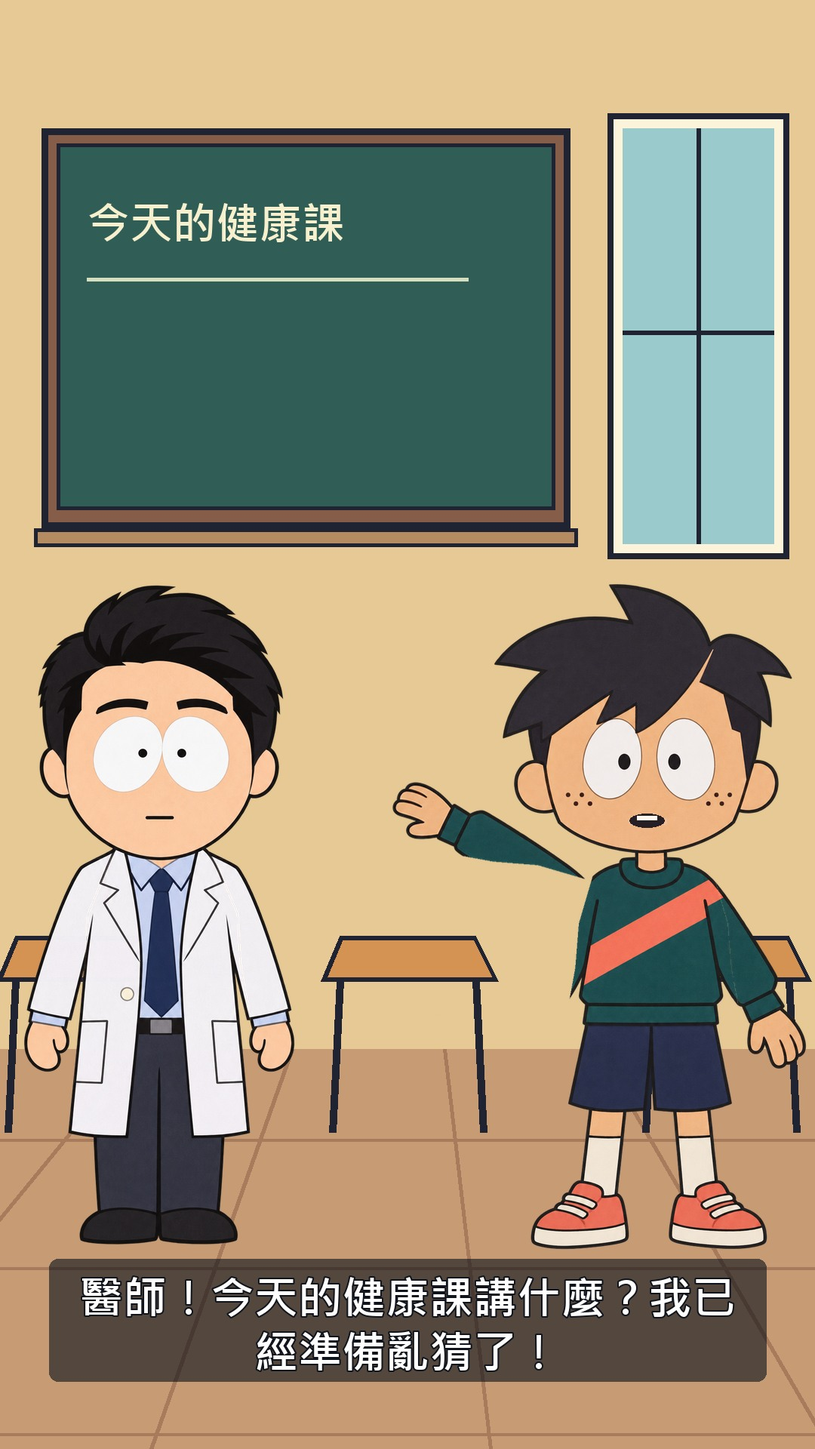
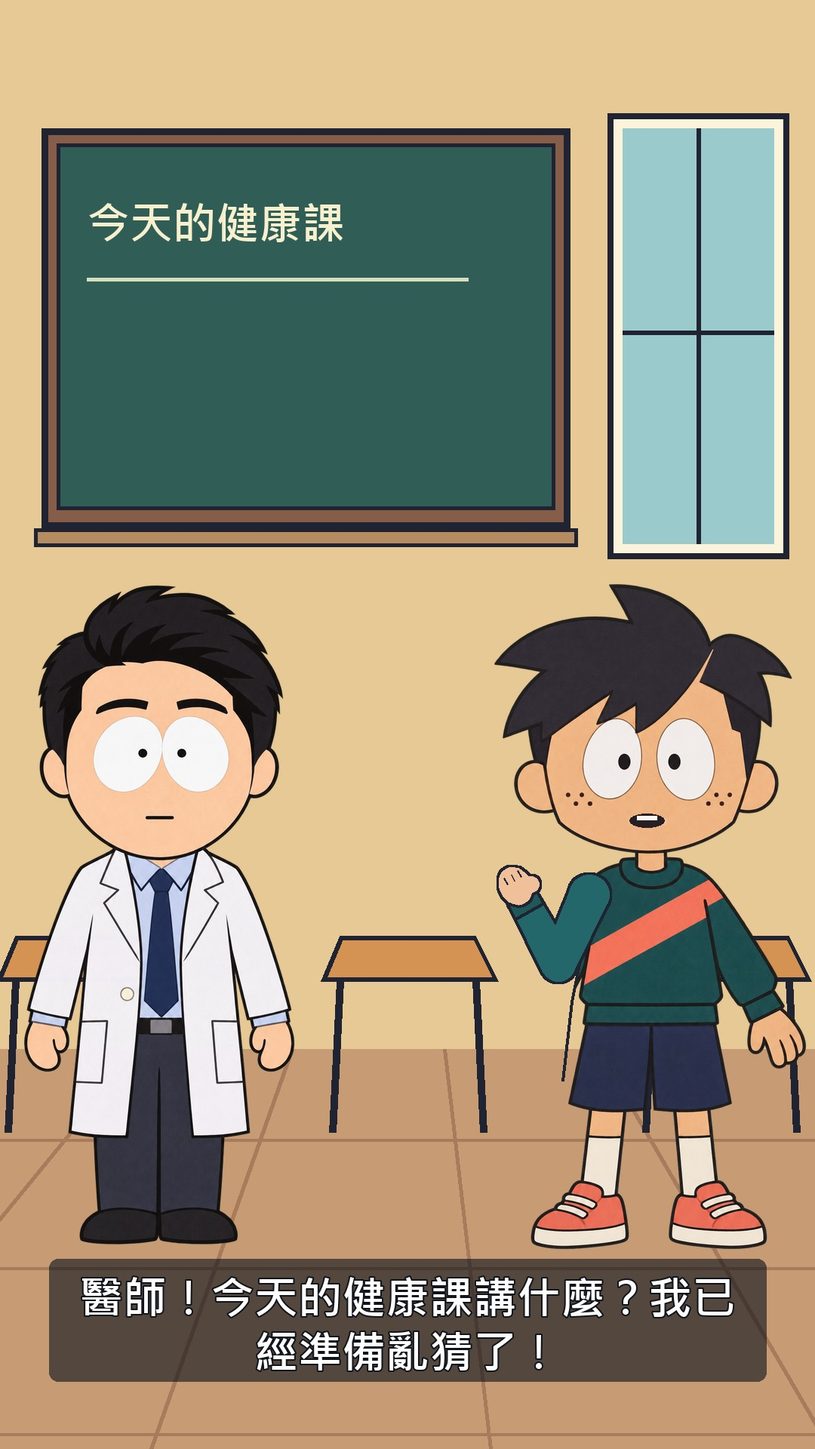
Fix detached arm poses with connected shoulder-elbow-wrist rigs

Changed region(s): [[0.4889, 0.5312, 0.7639, 0.75]]

diff --git a/examples/draft/storyboard.html b/examples/draft/storyboard.html
@@ -1,1 +1,1 @@
-<!doctype html><html lang="zh-Hant"><meta charset="utf-8"><meta name="viewport" content="width=device-width,initial-scale=1"><title>醫師剪紙劇場・通用讀劇範本・分鏡審稿</title><style>body{background:#fff9ed;color:#202332;font:17px system-ui;max-width:1100px;margin:40px auto;padding:0 20px}article{display:grid;grid-template-columns:230px 1fr;gap:28px;border-top:3px solid #202332;padding:25px 0}img{width:100%;aspect-ratio:9/16;object-fit:contain}h1{font-size:30px}small{color:#666}p{line-height:1.7}.status{padding:18px;background:#f8c854}a{color:#315d57}@media(max-width:600px){article{grid-template-columns:1fr}img{max-width:270px}}</style><h1>醫師剪紙劇場・通用讀劇範本</h1><p class="status">待審稿 · 手機滿版場景 9:16 · 版本 7fb4c6f94cf9d104 · 約 49.0 秒（估）<br>尚未生成配音、配樂或影片。請先修改或確認腳本與分鏡。</p><p><a href="script.md">完整腳本</a> · <a href="storyboard.jpg">分鏡總覽</a> · <a href="episode.json">劇本資料</a></p><article><img src="frames/01.jpg" alt="分鏡 1"><div><small>01 · 教室 · 角色對話 · 5.7s（估）</small><h2>先猜，再找答案？</h2><p><b>阿洛：</b>醫師！今天的健康課講什麼？我已經準備亂猜了！</p><p>動作：教室黑板前，阿洛點頭搶話，醫師在旁聽。</p><p>反應：醫師維持冷面，等阿洛說完。</p><p>鏡頭：固定尺度・阿洛發言 · 來源：無臨床說法</p></div></article><article><img src="frames/02.jpg" alt="分鏡 2"><div><small>02 · 教室 · 黑板講解 · 6.4s（估）</small><h2>黑板把關係講清楚</h2><p><b>醫師：</b>先有主題，再查資料。你看黑板，我把關係整理給你看。</p><p>動作：師生同尺度分站黑板兩側，醫師用指示棒介紹條列與箭頭。</p><p>反應：阿洛看完黑板再接話，不讓教具成為純背景。</p><p>鏡頭：固定尺度・醫師發言 · 來源：無臨床說法</p></div></article><article><img src="frames/03.jpg" alt="分鏡 3"><div><small>03 · 小學校園 · 角色對話 · 5.9s（估）</small><h2>也可以用模型上課</h2><p><b>美芳：</b>也能放個骨頭模型嗎？讓學生看著教具，再問問題。</p><p>動作：校園中美芳提出教具建議，醫師聽完帶回教室示範。</p><p>反應：不把每一集固定成有人說錯、醫師糾正。</p><p>鏡頭：固定尺度・美芳發言 · 來源：無臨床說法</p></div></article><article><img src="frames/04.jpg" alt="分鏡 4"><div><small>04 · 教室 · 骨頭模型示範 · 5.9s（估）</small><h2>骨頭模型上桌</h2><p><b>醫師：</b>可以。模型放桌上，學生看得到，問題就能接著來。</p><p>動作：醫師與阿洛同尺度站在模型兩側；桌面有骨頭教具與支架。</p><p>反應：阿洛觀察模型；本幕只展示教具演法，不提供疾病或精確解剖說法。</p><p>鏡頭：固定尺度・醫師發言 · 來源：無臨床說法</p></div></article><article><img src="frames/05.jpg" alt="分鏡 5"><div><small>05 · 街道 · 角色對話 · 5.8s（估）</small><h2>連教室都要搬出來？</h2><p><b>阿洛：</b>所以每次上課，都得把整個教室一起搬到街上嗎？</p><p>動作：街道中阿洛追問，醫師保持同尺度冷面聽完。</p><p>反應：從教具示範轉成生活情境，用接話推進笑點。</p><p>鏡頭：固定尺度・阿洛發言 · 來源：無臨床說法</p></div></article><article><img src="frames/06.jpg" alt="分鏡 6"><div><small>06 · 街道 · 並列比較 · 5.9s（估）</small><h2>演法依主題來選</h2><p><b>美芳：</b>不用搬教室。看主題，選適合的場景、黑板或模型。</p><p>動作：街道上用並列教學卡比較兩種敘事用途，兩位角色保持同尺度。</p><p>反應：美芳代觀眾回應，不把所有內容塞成醫師獨白。</p><p>鏡頭：固定尺度・美芳發言 · 來源：無臨床說法</p></div></article><article><img src="frames/07.jpg" alt="分鏡 7"><div><small>07 · 教室 · 學生猜題 · 6.8s（估）</small><h2>先讓你看分鏡</h2><p><b>醫師：</b>來，猜一下：先看分鏡，還是直接開拍？你確認了才開拍。</p><p>動作：師生站在黑板兩側，列出兩個選項，先交給使用者審閱。</p><p>反應：阿洛準備接話；修改確認之前不生成聲音或影片。</p><p>鏡頭：固定尺度・全員同框 · 來源：無臨床說法</p></div></article><article><img src="frames/08.jpg" alt="分鏡 8"><div><small>08 · 教室 · 角色對話 · 6.5s（估）</small><h2>先審稿，才不會演錯棚</h2><p><b>阿洛：</b>好！先讓你看分鏡，我才不會抱著骨頭模型演錯棚！</p><p>動作：滿版教室雙人同框；阿洛說話時揮手，結束後收手留白。</p><p>反應：醫師在旁聽，停在分鏡審稿階段，等待使用者修改。</p><p>鏡頭：固定尺度・笑點留白 · 來源：無臨床說法</p></div></article></html>
+<!doctype html><html lang="zh-Hant"><meta charset="utf-8"><meta name="viewport" content="width=device-width,initial-scale=1"><title>醫師剪紙劇場・通用讀劇範本・分鏡審稿</title><style>body{background:#fff9ed;color:#202332;font:17px system-ui;max-width:1100px;margin:40px auto;padding:0 20px}article{display:grid;grid-template-columns:230px 1fr;gap:28px;border-top:3px solid #202332;padding:25px 0}img{width:100%;aspect-ratio:9/16;object-fit:contain}h1{font-size:30px}small{color:#666}p{line-height:1.7}.status{padding:18px;background:#f8c854}a{color:#315d57}@media(max-width:600px){article{grid-template-columns:1fr}img{max-width:270px}}</style><h1>醫師剪紙劇場・通用讀劇範本</h1><p class="status">待審稿 · 手機滿版場景 9:16 · 版本 ea56bb37448d4e18 · 約 49.0 秒（估）<br>尚未生成配音、配樂或影片。請先修改或確認腳本與分鏡。</p><p><a href="script.md">完整腳本</a> · <a href="storyboard.jpg">分鏡總覽</a> · <a href="episode.json">劇本資料</a></p><article><img src="frames/01.jpg" alt="分鏡 1"><div><small>01 · 教室 · 角色對話 · 5.7s（估）</small><h2>先猜，再找答案？</h2><p><b>阿洛：</b>醫師！今天的健康課講什麼？我已經準備亂猜了！</p><p>動作：教室黑板前，阿洛點頭搶話，醫師在旁聽。</p><p>反應：醫師維持冷面，等阿洛說完。</p><p>鏡頭：固定尺度・阿洛發言 · 來源：無臨床說法</p></div></article><article><img src="frames/02.jpg" alt="分鏡 2"><div><small>02 · 教室 · 黑板講解 · 6.4s（估）</small><h2>黑板把關係講清楚</h2><p><b>醫師：</b>先有主題，再查資料。你看黑板，我把關係整理給你看。</p><p>動作：師生同尺度分站黑板兩側，醫師用指示棒介紹條列與箭頭。</p><p>反應：阿洛看完黑板再接話，不讓教具成為純背景。</p><p>鏡頭：固定尺度・醫師發言 · 來源：無臨床說法</p></div></article><article><img src="frames/03.jpg" alt="分鏡 3"><div><small>03 · 小學校園 · 角色對話 · 5.9s（估）</small><h2>也可以用模型上課</h2><p><b>美芳：</b>也能放個骨頭模型嗎？讓學生看著教具，再問問題。</p><p>動作：校園中美芳提出教具建議，醫師聽完帶回教室示範。</p><p>反應：不把每一集固定成有人說錯、醫師糾正。</p><p>鏡頭：固定尺度・美芳發言 · 來源：無臨床說法</p></div></article><article><img src="frames/04.jpg" alt="分鏡 4"><div><small>04 · 教室 · 骨頭模型示範 · 5.9s（估）</small><h2>骨頭模型上桌</h2><p><b>醫師：</b>可以。模型放桌上，學生看得到，問題就能接著來。</p><p>動作：醫師與阿洛同尺度站在模型兩側；桌面有骨頭教具與支架。</p><p>反應：阿洛觀察模型；本幕只展示教具演法，不提供疾病或精確解剖說法。</p><p>鏡頭：固定尺度・醫師發言 · 來源：無臨床說法</p></div></article><article><img src="frames/05.jpg" alt="分鏡 5"><div><small>05 · 街道 · 角色對話 · 5.8s（估）</small><h2>連教室都要搬出來？</h2><p><b>阿洛：</b>所以每次上課，都得把整個教室一起搬到街上嗎？</p><p>動作：街道中阿洛追問，醫師保持同尺度冷面聽完。</p><p>反應：從教具示範轉成生活情境，用接話推進笑點。</p><p>鏡頭：固定尺度・阿洛發言 · 來源：無臨床說法</p></div></article><article><img src="frames/06.jpg" alt="分鏡 6"><div><small>06 · 街道 · 並列比較 · 5.9s（估）</small><h2>演法依主題來選</h2><p><b>美芳：</b>不用搬教室。看主題，選適合的場景、黑板或模型。</p><p>動作：街道上用並列教學卡比較兩種敘事用途，兩位角色保持同尺度。</p><p>反應：美芳代觀眾回應，不把所有內容塞成醫師獨白。</p><p>鏡頭：固定尺度・美芳發言 · 來源：無臨床說法</p></div></article><article><img src="frames/07.jpg" alt="分鏡 7"><div><small>07 · 教室 · 學生猜題 · 6.8s（估）</small><h2>先讓你看分鏡</h2><p><b>醫師：</b>來，猜一下：先看分鏡，還是直接開拍？你確認了才開拍。</p><p>動作：師生站在黑板兩側，列出兩個選項，先交給使用者審閱。</p><p>反應：阿洛準備接話；修改確認之前不生成聲音或影片。</p><p>鏡頭：固定尺度・全員同框 · 來源：無臨床說法</p></div></article><article><img src="frames/08.jpg" alt="分鏡 8"><div><small>08 · 教室 · 角色對話 · 6.5s（估）</small><h2>先審稿，才不會演錯棚</h2><p><b>阿洛：</b>好！先讓你看分鏡，我才不會抱著骨頭模型演錯棚！</p><p>動作：滿版教室雙人同框；阿洛說話時揮手，結束後收手留白。</p><p>反應：醫師在旁聽，停在分鏡審稿階段，等待使用者修改。</p><p>鏡頭：固定尺度・笑點留白 · 來源：無臨床說法</p></div></article></html>

diff --git a/scripts/visuals.py b/scripts/visuals.py
@@ -29,25 +29,6 @@ def resolved_gesture(scene):
     return "question" if scene["speaker"]=="alo" else "talk"
 
 
-def gesture_angles(gesture,phase,direction=1):
-    wave=math.sin(phase*math.tau/6)
-    if gesture=="talk":
-        left,right=0,14+12*wave
-    elif gesture=="point":
-        left,right=0,60+5*wave
-    elif gesture=="present":
-        left,right=0,45+8*wave
-    elif gesture=="question":
-        left,right=0,85+8*wave
-    elif gesture=="wave":
-        left,right=0,100+12*wave
-    else:
-        left,right=0,0
-    if direction<0:
-        left,right=-right,-left
-    return round(left/5)*5,round(right/5)*5
-
-
 def find_font(explicit=None):
     paths = [explicit] if explicit else []
     paths += [os.environ.get("CJK_FONT"), "C:/Windows/Fonts/msjhbd.ttc",
@@ -147,7 +128,7 @@ class Stage:
         return self.backgrounds[key].copy()
 
     def character_parts(self,name,height):
-        """Hinge the existing cut-paper sleeves/hands; retain the original body scale."""
+        """Clean only the active arm; keep the head, torso and idle arm intact."""
         key=(name,height)
         if key in self.arm_layers:
             return self.arm_layers[key]
@@ -155,52 +136,37 @@ class Stage:
         source=self.characters[name]
         rig=self.rigs[name]
         iw,ih=source.size
-        sx,sy=rig["shoulder"]
-        top,end=rig["arm_start"],rig["arm_end"]
-        polygon=[(sx+.015,top),(.335,top+.08),(.327,.58),(.307,.655),
-                 (.305,end),(.08,end),(.08,top)]
-        masks=[]
-        for side in (0,1):
-            mask=Image.new("L",source.size)
-            ImageDraw.Draw(mask).polygon([(round((1-x if side else x)*iw),round(y*ih))
-                                         for x,y in polygon],fill=255)
-            masks.append(mask)
-        alpha=source.getchannel("A")
-        body=source.copy()
-        body.putalpha(ImageChops.multiply(alpha,ImageOps.invert(ImageChops.lighter(*masks))))
-        pieces=[body]
-        for mask in masks:
-            limb=source.copy()
-            limb.putalpha(ImageChops.multiply(alpha,mask))
-            pieces.append(limb)
         pad=180
-        size=(round((iw+2*pad)*height/ih),height)
-        padded=[]
-        for piece in pieces:
-            layer=Image.new("RGBA",(iw+2*pad,ih))
-            layer.alpha_composite(piece,(pad,0))
-            padded.append(layer.resize(size,Image.Resampling.LANCZOS))
         scale=height/ih
-        pivots=[((pad+sx*iw)*scale,sy*ih*scale),
-                ((pad+(1-sx)*iw)*scale,sy*ih*scale)]
-        value=(padded,pivots,round(pad*scale))
+        size=(round((iw+2*pad)*scale),height)
+        bodies={}
+        for side in (None,0,1):
+            body=source.copy()
+            if side is not None:
+                path=rig["torso_edge"]
+                polygon=path+[(0,rig["arm_end"]),(0,path[0][1])]
+                mask=Image.new("L",source.size)
+                ImageDraw.Draw(mask).polygon([(round((1-x if side else x)*iw),round(y*ih))
+                                             for x,y in polygon],fill=255)
+                body.putalpha(ImageChops.multiply(source.getchannel("A"),ImageOps.invert(mask)))
+            layer=Image.new("RGBA",(iw+2*pad,ih))
+            layer.alpha_composite(body,(pad,0))
+            bodies[side]=layer.resize(size,Image.Resampling.LANCZOS)
+            if side is not None:
+                # Rejoin the surviving coat/shirt outline below the shoulder.
+                edge=[(round((pad+(1-x if side else x)*iw)*scale),round(y*height))
+                      for x,y in rig["torso_edge"]]
+                ImageDraw.Draw(bodies[side]).line(edge,fill=INK,width=4,joint="curve")
+        value=(bodies,None,round(pad*scale))
         self.arm_layers[key]=value
         return value
 
     def hand_anchor(self,name,height,gesture,phase,direction):
-        rig=self.rigs[name]
-        iw,ih=self.characters[name].size
-        sx,sy=rig["shoulder"]
-        hx,hy=rig["hand"]
-        side=1 if direction>0 else 0
-        px=(1-sx if side else sx)*iw
-        py=sy*ih
-        x=(1-hx if side else hx)*iw
-        y=hy*ih
-        angle=math.radians(gesture_angles(gesture,phase,direction)[side])
-        dx,dy=x-px,y-py
-        return ((px+dx*math.cos(angle)+dy*math.sin(angle))*height/ih,
-                (py-dx*math.sin(angle)+dy*math.cos(angle))*height/ih)
+        from arms import arm_pose
+        pose=arm_pose(self.rigs[name],self.characters[name].size,height,gesture,phase,direction)
+        if pose is None:
+            raise ValueError("A pointer needs an active arm pose")
+        return pose["hand"]
 
     def character_sprite(self, name, height, mouth, blink, gesture="rest", phase=0, direction=1):
         if gesture=="rest":
@@ -208,12 +174,13 @@ class Stage:
         key = (name, height, mouth, blink, gesture, phase, direction)
         if key in self.sprites:
             return self.sprites[key]
-        pieces,pivots,pad=self.character_parts(name,height)
-        image=pieces[0].copy()
-        for arm,pivot,angle in zip(pieces[1:],pivots,gesture_angles(gesture,phase,direction)):
-            image.alpha_composite(arm.rotate(angle,resample=Image.Resampling.BICUBIC,center=pivot)
-                                  if angle else arm)
-        rig = self.rigs[name]
+        from arms import arm_pose, draw_arm
+        bodies,_,pad=self.character_parts(name,height)
+        rig=self.rigs[name]
+        pose=arm_pose(rig,self.characters[name].size,height,gesture,phase,direction)
+        image=bodies[None if pose is None else pose["side"]].copy()
+        if pose is not None:
+            draw_arm(image,pose,rig,height,pad)
         draw = ImageDraw.Draw(image)
         iw,ih=self.characters[name].size
         scale=height/ih

diff --git a/scripts/arms.py b/scripts/arms.py
@@ -1,0 +1,100 @@
+"""Connected, fixed-length shoulder/elbow/wrist rigs for paper-cut gestures."""
+import math
+from PIL import Image, ImageDraw, ImageFilter
+
+INK="#202332"
+
+
+def arm_pose(rig,source_size,height,gesture,phase,direction=1):
+    if gesture=="rest":
+        return None
+    wave=math.sin(phase*math.tau/6)
+    if gesture=="talk":
+        upper,fore=74+3*wave,28+7*wave
+    elif gesture=="point":
+        upper,fore=32+2*wave,-32+3*wave
+    elif gesture=="present":
+        upper,fore=57+3*wave,-3+4*wave
+    elif gesture=="question":
+        upper,fore=64+2*wave,-64+3*wave
+    elif gesture=="wave":
+        upper,fore=56+2*wave,-56+7*wave
+    else:
+        raise ValueError(f"Unsupported gesture: {gesture}")
+    # Keep a visible elbow bend; never rotate a whole sleeve across the torso.
+    fore=max(upper-140,min(upper-20,fore))
+    side=1 if direction>0 else 0
+    if side==0:
+        upper,fore=180-upper,180-fore
+    iw,ih=source_size
+    sx,sy=rig["shoulder"]
+    shoulder=((1-sx if side else sx)*iw*height/ih,sy*height)
+    a,b=(value*height for value in rig["arm_lengths"])
+    def advance(point,angle,length):
+        theta=math.radians(angle)
+        return point[0]+math.cos(theta)*length,point[1]+math.sin(theta)*length
+    elbow=advance(shoulder,upper,a)
+    wrist=advance(elbow,fore,b)
+    hand=advance(wrist,fore,height*.022)
+    return {"side":side,"shoulder":shoulder,"elbow":elbow,"wrist":wrist,
+            "hand":hand,"upper_length":a,"lower_length":b,
+            "upper_angle":upper,"fore_angle":fore}
+
+
+def _segment(draw,a,b,wa,wb):
+    dx,dy=b[0]-a[0],b[1]-a[1]
+    length=math.hypot(dx,dy)
+    nx,ny=-dy/length,dx/length
+    draw.polygon([(a[0]+nx*wa,a[1]+ny*wa),(b[0]+nx*wb,b[1]+ny*wb),
+                  (b[0]-nx*wb,b[1]-ny*wb),(a[0]-nx*wa,a[1]-ny*wa)],fill=255)
+
+
+def _disc(draw,point,radius):
+    x,y=point
+    draw.ellipse((x-radius,y-radius,x+radius,y+radius),fill=255)
+
+
+def _paint_shape(image,mask,fill):
+    # One outline around the UNION, so no black cut seam runs across the elbow.
+    image.paste(INK,(0,0,*image.size),mask.filter(ImageFilter.MaxFilter(7)))
+    image.paste(fill,(0,0,*image.size),mask)
+
+
+def draw_arm(image,pose,rig,height,pad):
+    shoulder,elbow,wrist=[(pose[key][0]+pad,pose[key][1]) for key in ("shoulder","elbow","wrist")]
+    mask=Image.new("L",image.size)
+    d=ImageDraw.Draw(mask)
+    root_width,elbow_width,wrist_width=(height*v for v in (.029,.025,.021))
+    _segment(d,shoulder,elbow,root_width,elbow_width)
+    _segment(d,elbow,wrist,elbow_width,wrist_width)
+    _disc(d,shoulder,root_width)
+    _disc(d,elbow,elbow_width)
+    _disc(d,wrist,wrist_width)
+    _paint_shape(image,mask,rig["sleeve_color"])
+    # Cuff follows the forearm; the palm overlaps the wrist/cuff by several pixels.
+    theta=math.radians(pose["fore_angle"])
+    ux,uy=math.cos(theta),math.sin(theta)
+    cuff_start=(wrist[0]-ux*height*.018,wrist[1]-uy*height*.018)
+    cuff=Image.new("L",image.size)
+    _segment(ImageDraw.Draw(cuff),cuff_start,wrist,wrist_width*1.04,wrist_width)
+    _paint_shape(image,cuff,rig["cuff_color"])
+    palm=Image.new("L",image.size)
+    d=ImageDraw.Draw(palm)
+    nx,ny=-uy,ux
+    cx,cy=wrist[0]+ux*height*.022,wrist[1]+uy*height*.022
+    outline=[]
+    for k in range(32):
+        angle=k*math.tau/32
+        along=math.cos(angle)*height*.029
+        across=math.sin(angle)*height*.023
+        outline.append((cx+ux*along+nx*across,cy+uy*along+ny*across))
+    d.polygon(outline,fill=255)
+    # Small thumb lobe, connected to the palm rather than a detached hand stamp.
+    thumb=(wrist[0]+ux*height*.013+nx*height*.021,
+           wrist[1]+uy*height*.013+ny*height*.021)
+    _disc(d,thumb,height*.012)
+    _paint_shape(image,palm,rig["skin"])
+    d=ImageDraw.Draw(image)
+    for offset in (-.009,.003,.014):
+        p=(cx+ux*height*.007+nx*height*offset,cy+uy*height*.007+ny*height*offset)
+        d.line((p[0],p[1],p[0]+ux*height*.010,p[1]+uy*height*.010),fill=INK,width=2)

diff --git a/tests/test_pipeline.py b/tests/test_pipeline.py
@@ -148,6 +148,32 @@ class PipelineTests(unittest.TestCase):
             self.assertIsNone(ImageChops.difference(rest.crop((0,620,rest.width,780)),
                                                   point.crop((0,620,point.width,780))).getbbox())
 
+    def test_articulated_arms_keep_lengths_and_connected_sleeves(self):
+        from arms import arm_pose
+        stage=Stage(ROOT/"assets",render.validate(self.episode),find_font())
+        for name in ("doctor","alo","mei"):
+            rig=stage.rigs[name]
+            for direction in (-1,1):
+                for gesture in ("talk","point","present","question","wave"):
+                    for phase in range(6):
+                        pose=arm_pose(rig,stage.characters[name].size,780,gesture,phase,direction)
+                        self.assertAlmostEqual(math.dist(pose["shoulder"],pose["elbow"]),pose["upper_length"],places=6)
+                        self.assertAlmostEqual(math.dist(pose["elbow"],pose["wrist"]),pose["lower_length"],places=6)
+                        bend=abs(pose["upper_angle"]-pose["fore_angle"])
+                        self.assertTrue(20<=bend<=140)
+                    if gesture not in ("point","question","present"):
+                        continue
+                    sprite=stage.character_sprite(name,780,0,0,gesture=gesture,phase=2,direction=direction)
+                    pose=arm_pose(rig,stage.characters[name].size,780,gesture,2,direction)
+                    pad=stage.character_parts(name,780)[2]
+                    for start,end in ((pose["shoulder"],pose["elbow"]),(pose["elbow"],pose["wrist"]),(pose["wrist"],pose["hand"])):
+                        for k in range(11):
+                            fraction=k/10
+                            x=round(pad+start[0]+(end[0]-start[0])*fraction)
+                            y=round(start[1]+(end[1]-start[1])*fraction)
+                            self.assertGreaterEqual(sprite.getpixel((x,y))[3],240,
+                                                    f"Disconnected {name}/{gesture}/{direction} at {(x,y)}")
+
     def test_teaching_material_is_visible_in_draft_and_invalidates_approval(self):
         data=render.validate(self.episode)
         stage=Stage(ROOT/"assets",data,find_font())

diff --git a/references/format.md b/references/format.md
@@ -24,7 +24,7 @@
 - `setting`：classroom 教室／schoolyard 小學校園／street 街道。
 - `shot`：wide / doctor / alo / mei / punch，記錄對話焦點。**現成引擎鎖定人物尺寸與腳底基準，不因 shot 放大發言者或縮小聽者。** 全身畫面固定尺度，對話焦點以標示、嘴型和小動作表達。
 - `motion`：nod 上下點頭／shake 左右搖頭／still 靜止；`hold`：句後停頓 0.1–2 秒。
-- `gesture`：auto（依角色與教具選擇）／rest／talk 擺手／point 指黑板／present 攤手／question 舉手提問／wave 揮手。以原角色袖子與手掌分層、肩關節旋轉，朝同框內側動作，保留身體尺度與原來服裝；配音期間手臂循環變換，停頓後放鬆，講解指示棒跟隨手掌。靜態分鏡會顯示代表姿勢；不因看到張嘴就代表已生成配音。
+- `gesture`：auto（依角色與教具選擇）／rest／talk 擺手／point 指黑板／present 攤手／question 舉手提問／wave 揮手。手部以兩節固定長度的骨架計算肩、肘、腕位置，衣袖以連續輪廓繪製，手掌與袖口重疊接合；保留自然肘彎，避免整片斜切袖子旋轉露出缺口。朝同框內側動作，身體尺度保持固定；配音期間動作循環、停頓後放鬆，指示棒跟隨握持位置。`assets/cast.json` 的 `shoulder`、`arm_lengths`、`torso_edge`、袖色與膚色控制各角色接合。靜態分鏡只顯示代表姿勢，尚未配音。
 - `action`、`reaction`：供審稿的表演與接話說明，必填。只描述引擎支援的動作；更複雜動作先擴充並重新審稿。
 - `claims`：來源 ID 陣列。純劇情可空；醫療說法須對應來源。
 - `audio`：選填，以本 JSON 所在目錄為基準的錄音路徑，files 模式每幕必填。

diff --git a/README.md b/README.md
@@ -88,7 +88,7 @@ python scripts/render.py episode.json --out build/my-episode --render --approved
 - `--voice files`：接真人錄音或其他 TTS，每幕設定 `audio` 路徑。
 - 原創程序配樂：撥弦、低音、輕打擊；對話時降低音量，笑點留白。不是影集音軌。
 
-嘴型依聲音切換閉嘴、小開、寬口與圓口，不是逐音素口型；手部採獨立剪紙圖層和肩關節旋轉，依台詞做擺手、指示、介紹、提問及揮手。分鏡先顯示代表姿勢，確認後才合成配音與影片。字幕依音長按字長切段，不是逐字語音辨識。引擎也支援三種滿版場景、黑板文字／箭頭／跟手移動的指示棒、骨頭教具、猜題及比較卡。骨頭教具為簡化長骨示意；特定解剖模型、複雜走位、抓握教具與醫療動作示範仍需擴充並重新交分鏡。合成配音不代表醫師本人聲音。
+嘴型依聲音切換閉嘴、小開、寬口與圓口，不是逐音素口型。手部使用肩膀—手肘—手腕相連的兩節骨架，固定上臂與前臂長度，袖子、袖口與手掌連續接合；抬手保留肘彎，避免整片袖子旋轉造成斷開感。依台詞做擺手、指示、介紹、提問及揮手。分鏡先顯示代表姿勢，確認後才合成配音與影片。字幕依音長按字長切段，不是逐字語音辨識。引擎也支援三種滿版場景、黑板與跟手移動的指示棒、骨頭教具、猜題及比較卡。特定解剖模型、複雜走位、抓握教具與醫療動作示範仍需擴充並重新交分鏡。合成配音不代表醫師本人聲音。
 
 ## 醫療來源、素材與驗證
 

diff --git a/examples/draft/script.md b/examples/draft/script.md
@@ -1,6 +1,6 @@
 # 醫師剪紙劇場・通用讀劇範本
 
-分鏡版本：`7fb4c6f94cf9d104`
+分鏡版本：`ea56bb37448d4e18`
 
 狀態：待使用者審閱。尚未生成配音、配樂或影片。
 
